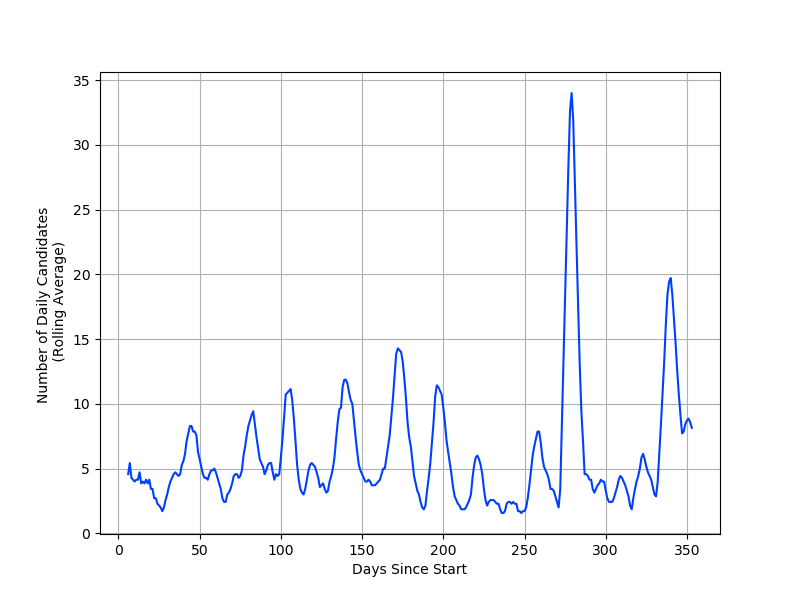
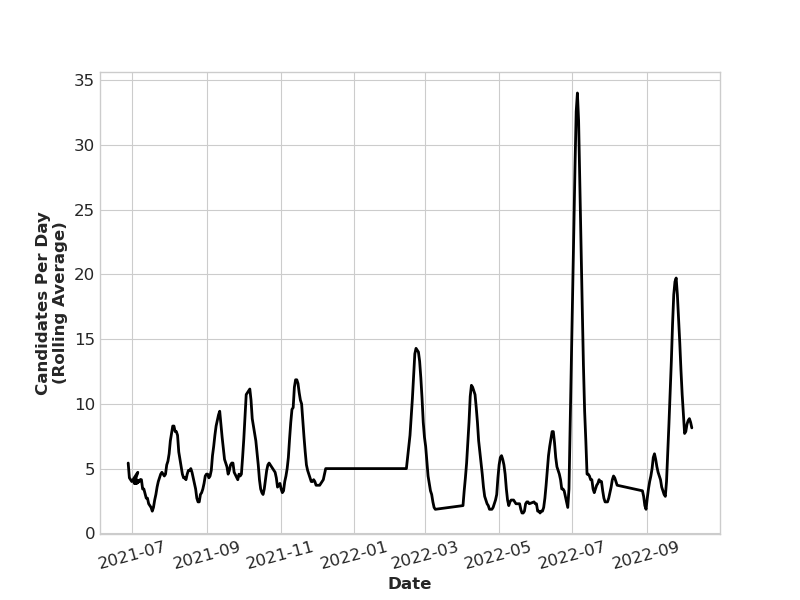
merge plotDailyCandRolling into plotDailyCand

diff --git a/stats.py b/stats.py
@@ -337,37 +337,57 @@ def plotDailyCand(df, save=True):
     print('numDaily: %s'%numDaily) if args.verbose else None
     print() if args.verbose else None
     
+    numDailyRolling = pd.Series(numDaily).rolling(7).mean()
+    print('numDailyRolling: %s'%numDailyRolling) if args.verbose else None
+    print() if args.verbose else None
+    
     cumDaily = np.cumsum(numDaily)
     print('cumDaily: %s'%cumDaily) if args.verbose else None
     print() if args.verbose else None
     
     ## plot number of candidates per day
     fig, ax = plotstyle(figsize=(8,6), facecolor='white') 
-    ax.plot(dateList, numDaily,color='black',linewidth=2)
+    ax.plot(dateList, numDaily,
+            color='black',linewidth=2)
     plt.xticks(rotation=15)
     ax.set_xlabel("Date") 
     ax.set_ylabel('Candidates Per Day')
-    plt.savefig(plotDir("numDailyCand")) if save else plt.clf()
-    plt.clf() 
+    plt.savefig(plotDir("numDailyCand")) if save else None
+    print('completed numDailyCand plot') if args.verbose else None
+    plt.clf()
+     
     
     ## plot histogram of number of candidates per day
     fig, ax = plotstyle(figsize=(10,6), facecolor='white')
-    sns.histplot(numDaily, kde=True, bins=numDaily.max(), ax=ax) ## I think having bins equal to the max number of candidates per day looks best
+    sns.histplot(numDaily, kde=True, 
+                 bins=numDaily.max(), ax=ax) ## I think having bins equal to the max number of candidates per day looks best
     ax.set_xlabel("Candidates Per Day")
     ax.set_ylabel('Count')
     plt.savefig(plotDir("numDailyCandHist")) if save else None
+    print('completed numDailyCandHist plot') if args.verbose else None
     plt.clf()
     
     ## plot cumulative number of candidates per day
     fig, ax = plotstyle(figsize=(8,6), facecolor='white')
-    ax.plot(dateList,cumDaily,color='black',linewidth=2)
+    ax.plot(dateList,cumDaily,
+            color='black',linewidth=2)
     plt.xticks(rotation=15)
     ax.set_xlabel("Date")
     ax.set_ylabel('Candidate Count')
     plt.savefig(plotDir("cumDailyCand")) if save else None
+    print('completed cumDailyCand plot') if args.verbose else None
     plt.clf()
-
-
+    
+    #plot 7 day rolling average of candidates per day
+    fig, ax = plotstyle(figsize=(8,6), facecolor='white')
+    ax.plot(dateList, numDailyRolling,
+            color='black',linewidth=2) ## note: this won't work with one week of data
+    plt.xticks(rotation=15)
+    ax.set_xlabel("Date")
+    ax.set_ylabel('Candidates Per Day\n(Rolling Average)') ## needs title
+    plt.savefig(plotDir("numDailyCandRolling")) if save else None
+    print('completed numDailyCandRolling plot') if args.verbose else None
+    plt.clf()
 
 
 def plotDailyCandRolling(df, save=True):
